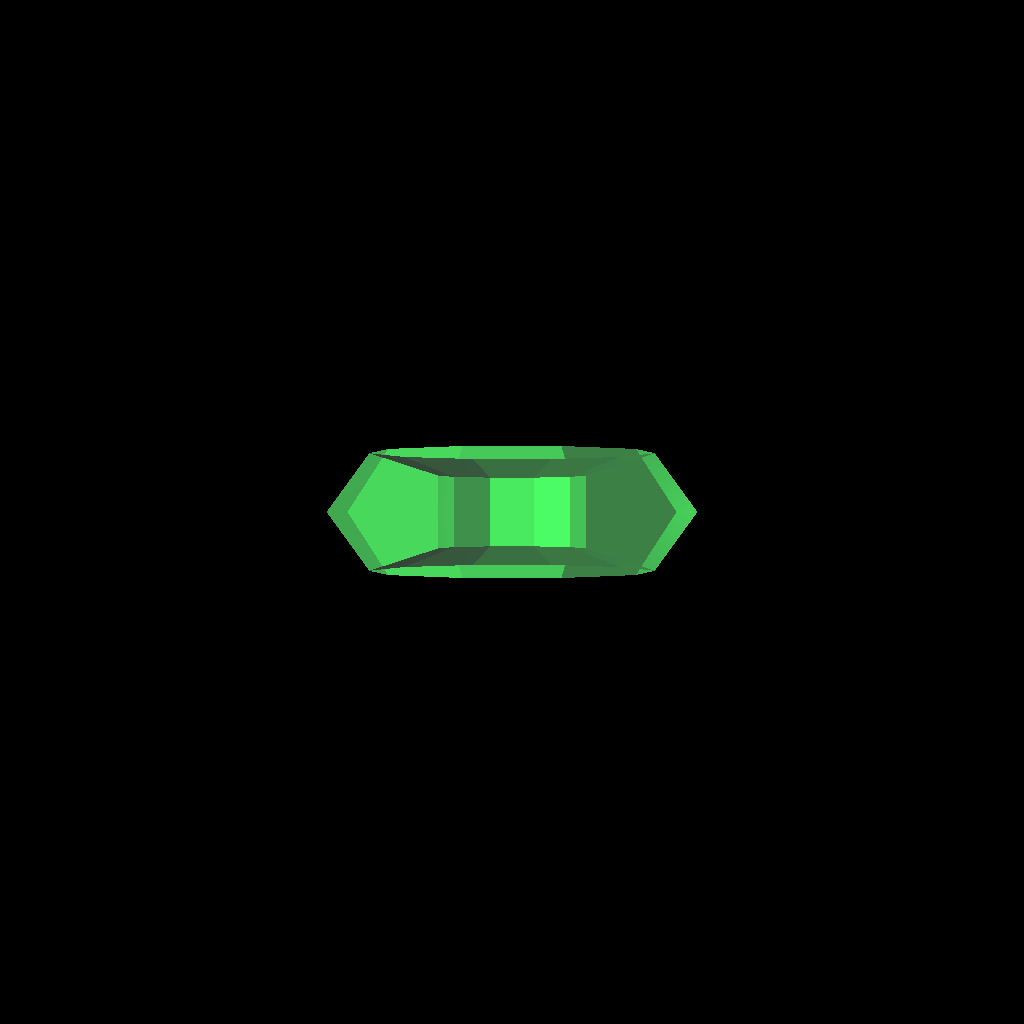
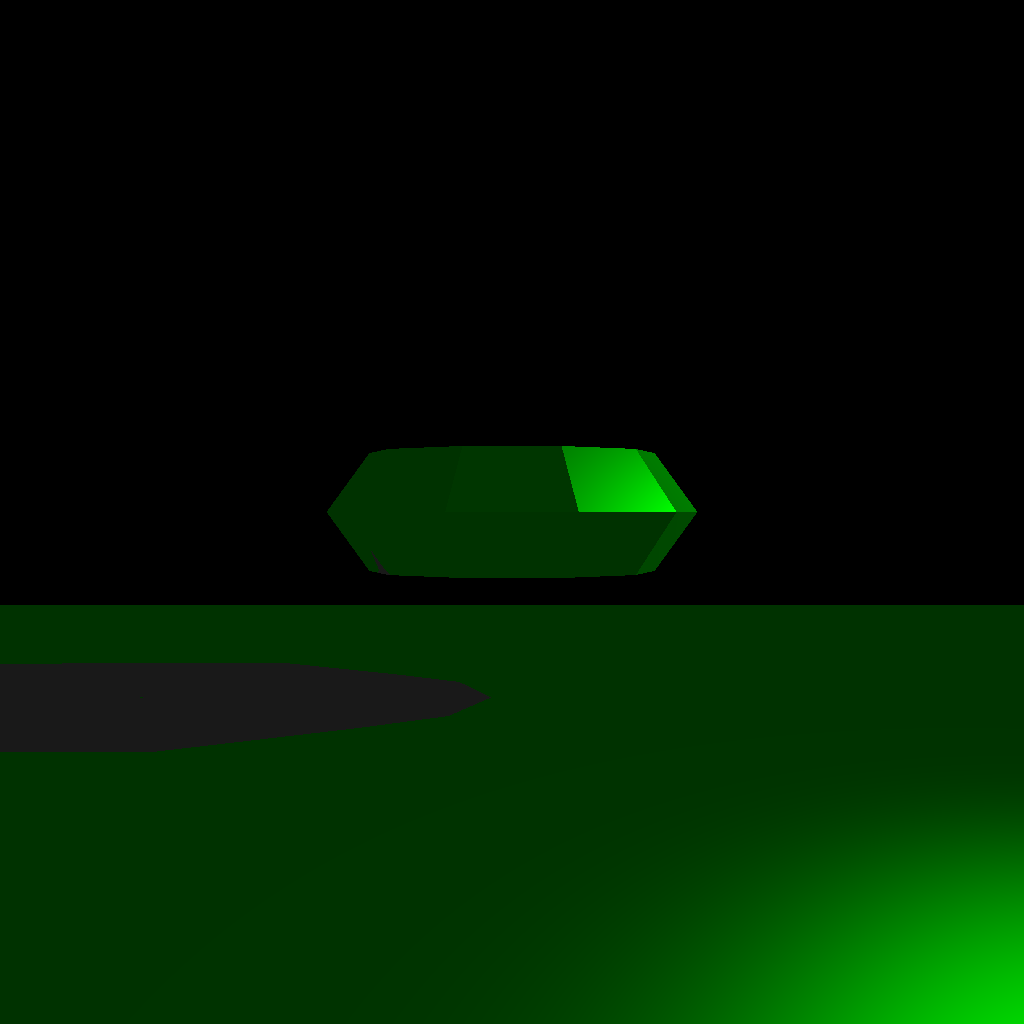
obj load and phong shading completed, recursive function doesn't work

diff --git a/PhysicallyBasedRendering/Mesh.cpp b/PhysicallyBasedRendering/Mesh.cpp
@@ -48,6 +48,14 @@ void Mesh::SetMesh(aiMesh* mesh)
 		triangle.v1 = vertices[indices[i * 3 + 1]].position;
 		triangle.v2 = vertices[indices[i * 3 + 2]].position;
 
+		triangle.normal =
+			normalize((
+				vertices[indices[i * 3 + 0]].normal +
+				vertices[indices[i * 3 + 1]].normal +
+				vertices[indices[i * 3 + 2]].normal) 
+				/ 3.0f);
+
+
 		triangles.push_back(triangle);
 	}
 }
@@ -127,11 +135,16 @@ void Mesh::LoadMesh(const string& fileName)
 				indices[j * 3 + offset + 0] = indexOffset + scene->mMeshes[i]->mFaces[j].mIndices[0];
 				indices[j * 3 + offset + 1] = indexOffset + scene->mMeshes[i]->mFaces[j].mIndices[1];
 				indices[j * 3 + offset + 2] = indexOffset + scene->mMeshes[i]->mFaces[j].mIndices[2];
-
+				
 				Triangle triangle;
 				triangle.v0 = vertices[indices[j * 3 + offset + 0]].position;
 				triangle.v1 = vertices[indices[j * 3 + offset + 1]].position;
 				triangle.v2 = vertices[indices[j * 3 + offset + 2]].position;
+
+				triangle.normal =
+					normalize((vertices[indices[j * 3 + offset + 0]].normal +
+						vertices[indices[j * 3 + offset + 1]].normal +
+						vertices[indices[j * 3 + offset + 2]].normal) / 3.0f);
 
 				triangles.push_back(triangle);
 			}

diff --git a/PhysicallyBasedRendering/RayTracingRenderer.h b/PhysicallyBasedRendering/RayTracingRenderer.h
@@ -30,4 +30,7 @@ private:
 	Texture2D rayTracingTex;
 
 	PNGExporter pngExporter;
+
+	std::vector<Triangle> triangles;
+	std::vector<Light> lights;
 };
